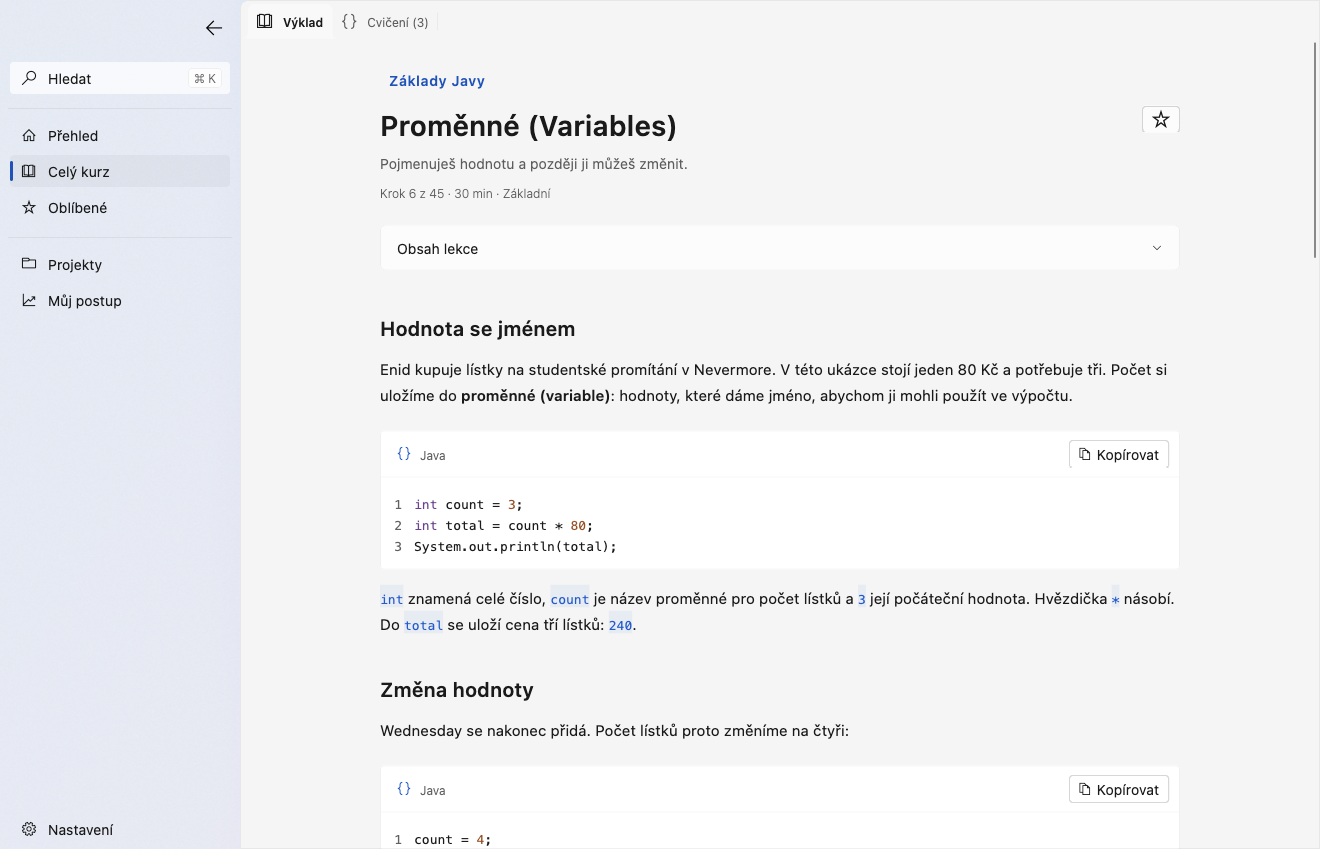
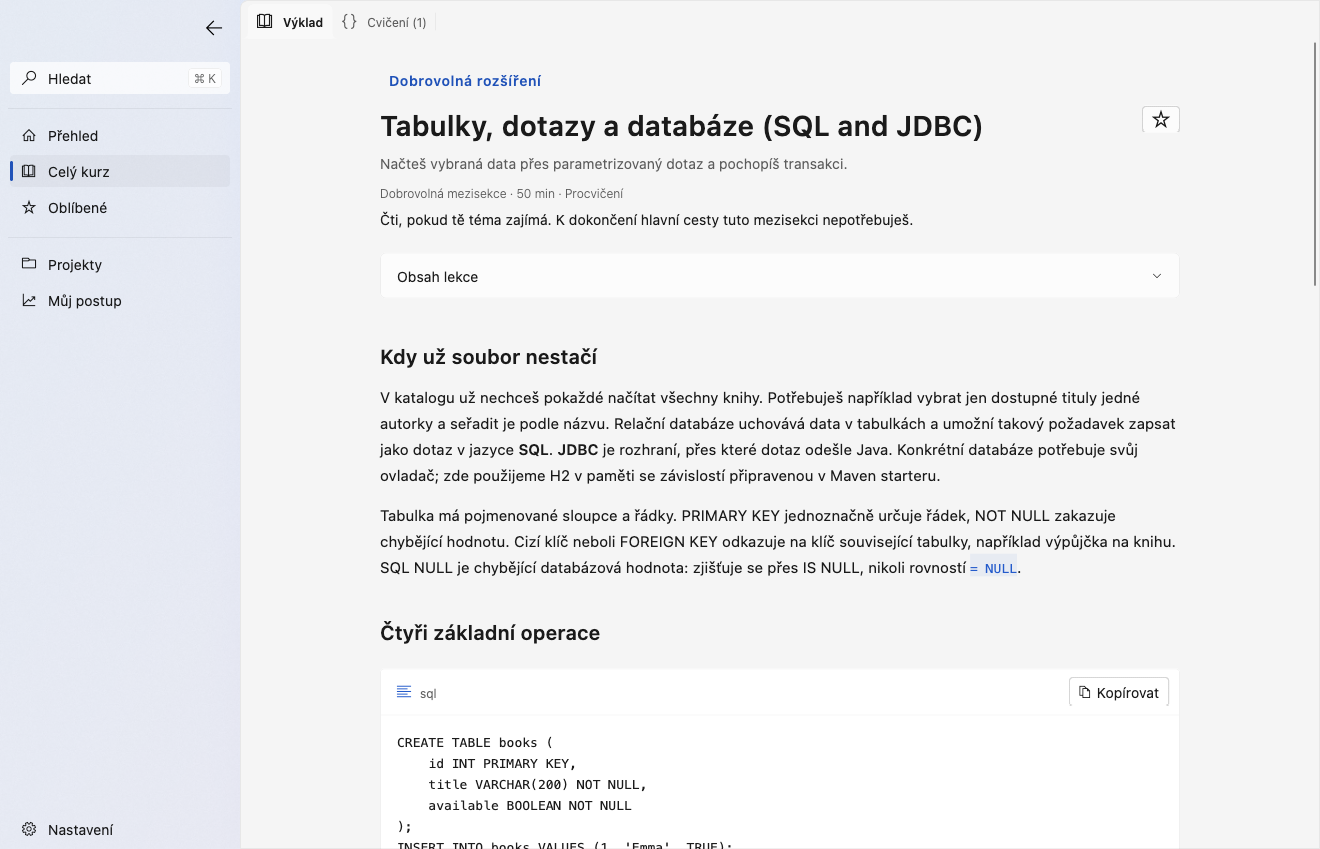
Use the SQL lesson in the README screenshot

diff --git a/integration_test/app_test.dart b/integration_test/app_test.dart
@@ -159,6 +159,9 @@ void main() {
           isTrue,
         );
         await screenshot('19-optional-depth-light');
+        await app.openLesson(app.course.lessonsById['sql-and-jdbc']!);
+        await tester.pumpAndSettle();
+        await screenshot('24-sql-jdbc-light');
         await app.preference('uiScale', '160');
         app.go(const PageLocation(AppPage.settings));
         await tester.pumpAndSettle();

diff --git a/README.md b/README.md
@@ -4,7 +4,7 @@ I promised my friends at university an easy way to learn Java, so I built Aiva a
 
 ## A look inside
 
-![Lekce Proměnné ve světlém režimu: výklad, struktura témat a ukázky kódu](docs/images/aiva-lesson-light.png)
+![Lekce SQL a JDBC ve světlém režimu: relační databáze, výklad a ukázka SQL](docs/images/aiva-lesson-light.png)
 
 ## Features
 
